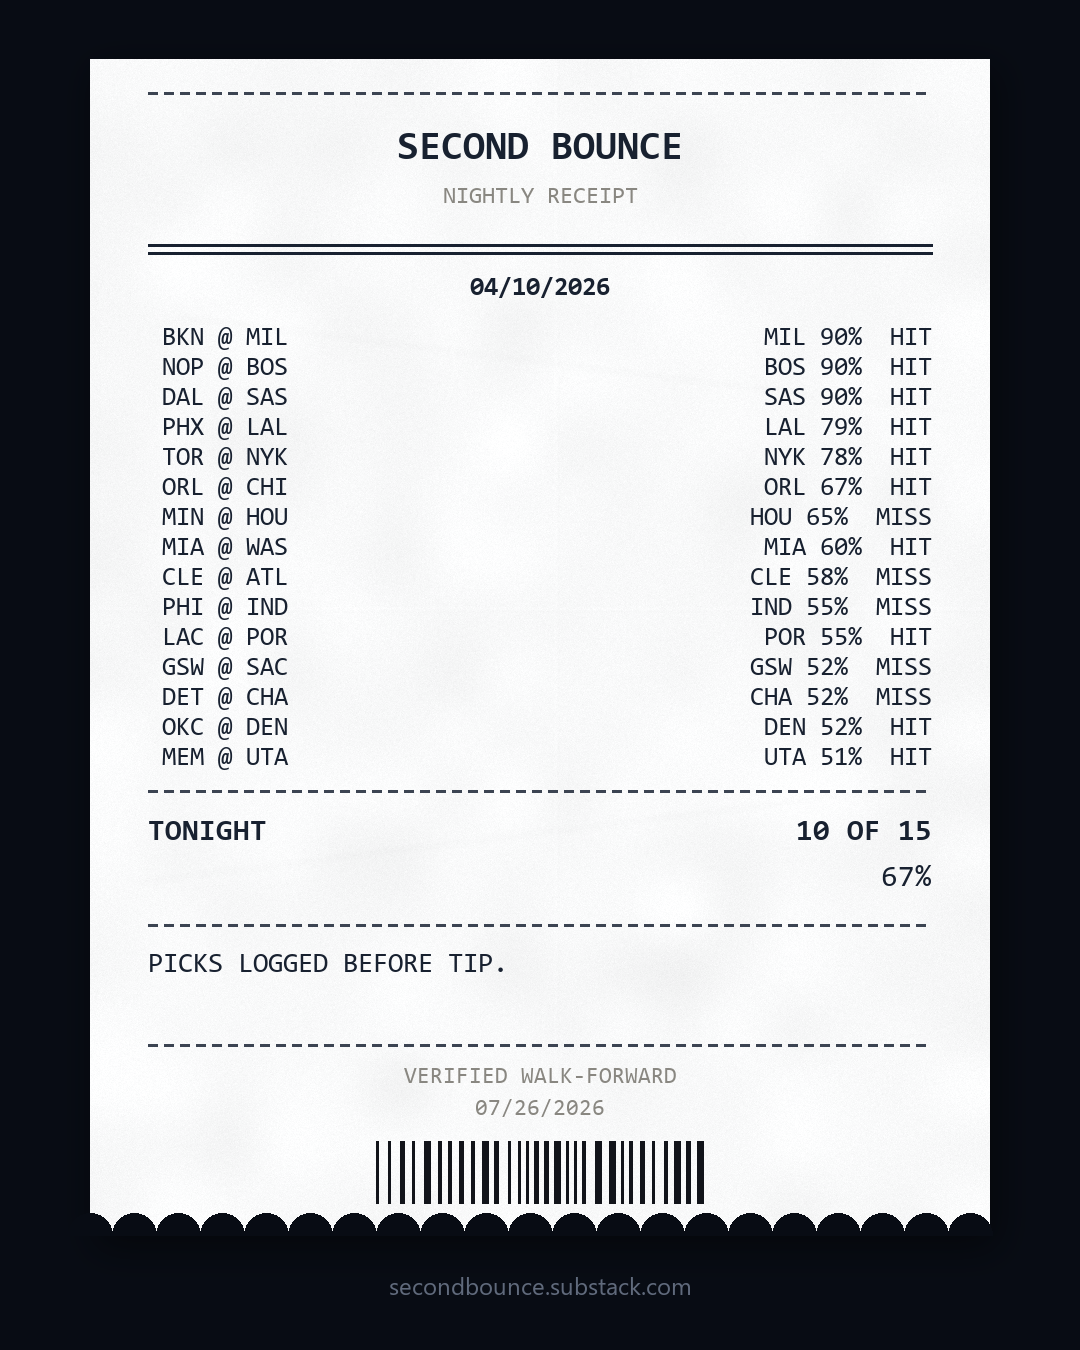
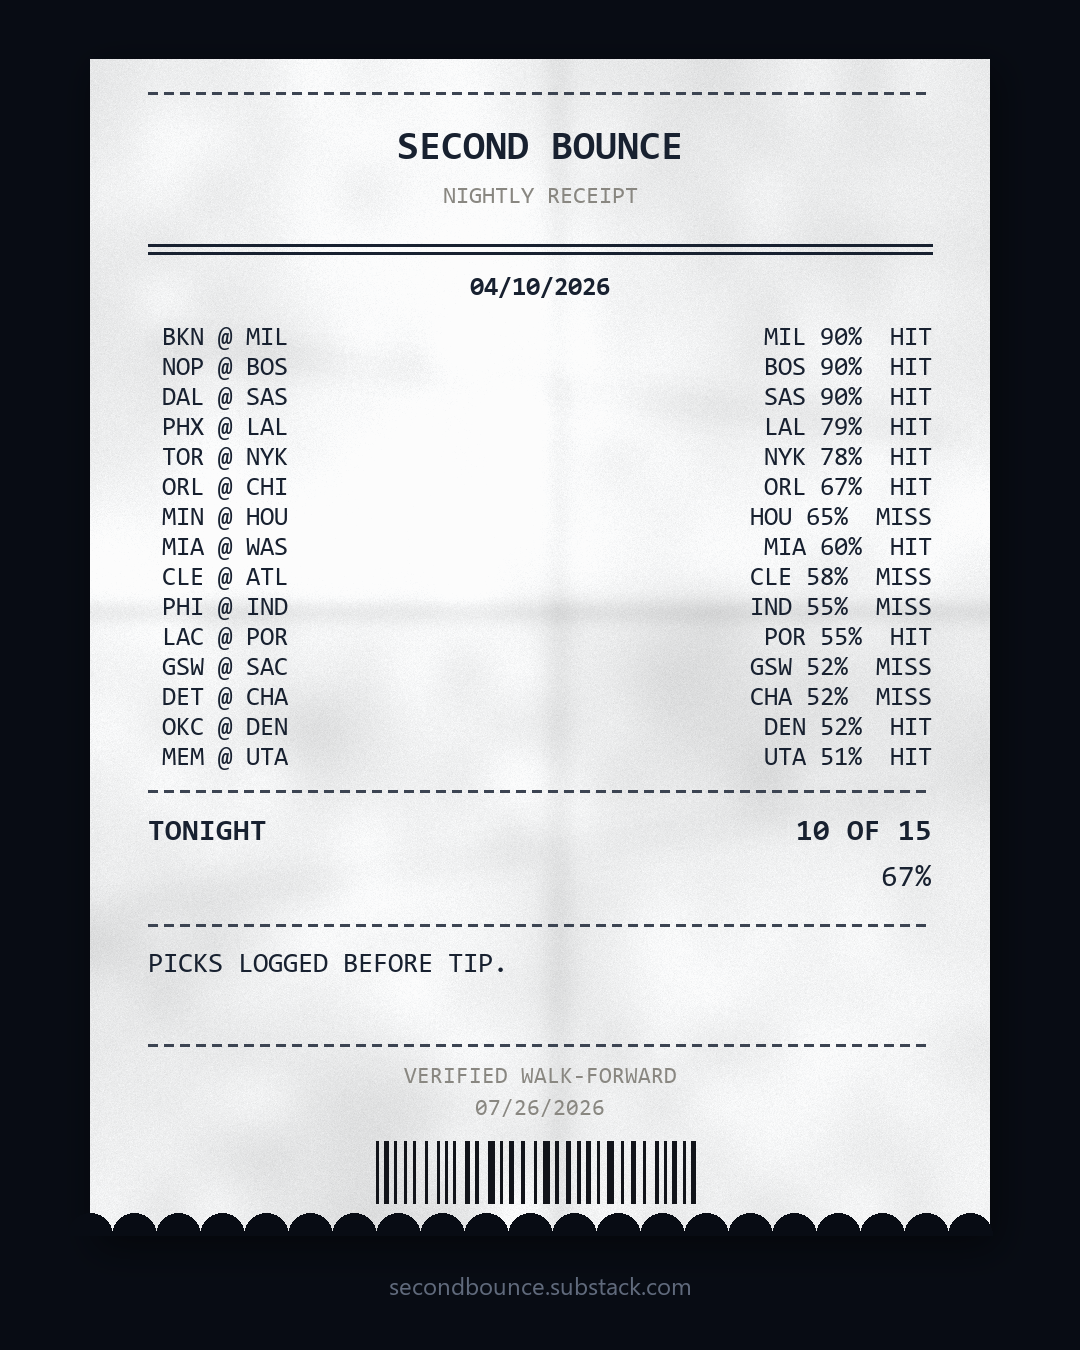
Receipts: retune paper texture so it is actually visible, add a --texture dial
Aaron could not make the first texture out, and he was right. The weight was on fine
grain and +-13 levels of mottling on a 250 base, roughly 5% variation, which is
invisible in a feed: the platform scales a 1080px image down to ~420px and
high-frequency detail averages away entirely.

Rebuilt around BROAD luminance variation, which is what survives downscaling:
  * uneven lighting from very low-res noise upscaled (the cloudy look of real stock)
  * fold shading as an antisymmetric profile d*exp(-d^2), darkening one side of the
    seam and lifting the other, which is how a fold actually catches light, plus a
    narrow crease line along it
  * two soft diagonal creases and a corner vignette
  * grain demoted to a top note
Paper std-dev goes 1.4 -> 8.3 levels. Verified at 420px, the size the feed renders:
the fold, the cloudy shading and the vignette all still read, and the monospace text
is still legible, which was the constraint.

`--texture` scales every amplitude (0 flat, 1 default, 1.6 heavy) so this is tunable
from the CLI without editing code.

diff --git a/scripts/generate_receipt_note.py b/scripts/generate_receipt_note.py
@@ -78,52 +78,68 @@ def abbr(name: str) -> str:
 
 
 # ------------------------------------------------------------------ texture
-def paper(w: int, h: int, seed: int = 7) -> Image.Image:
-    """Thermal-paper stock: soft cloudy mottling, a cross fold, fine grain.
+def paper(w: int, h: int, seed: int = 7, strength: float = 1.0) -> Image.Image:
+    """Photographed thermal paper.
 
-    Built from low-resolution noise upscaled smoothly (that is what gives the broad
-    cloudy variation of real paper, rather than uniform static), then a little
-    high-frequency grain on top, then fold seams.
+    Retuned 2026-07-26 after Aaron could not make the first version out. The lesson:
+    fine grain is invisible once the feed scales the image down. What survives is
+    BROAD luminance variation, so the weight is on large-scale uneven lighting, fold
+    shading and a vignette, with grain as a top note rather than the main event.
+
+    Layers, coarse to fine:
+      1. uneven lighting   very low-res noise, upscaled: the cloudy look of real stock
+      2. mottling          medium-res noise
+      3. fold              antisymmetric shading either side of the seam (dark on one
+                           side, lifted on the other, which is how a fold catches
+                           light), plus a narrow crease line
+      4. creases           two soft diagonals
+      5. vignette          corners fall off, as in a photo
+      6. grain             fine noise
+    `strength` scales every amplitude, so it can be dialled from the CLI.
     """
     rng = np.random.default_rng(seed)
+    s = strength
 
-    # broad mottling: 16x20 noise stretched to full size
-    low = rng.normal(0, 1, (20, 16))
-    mottle = np.array(Image.fromarray(
-        ((low - low.min()) / np.ptp(low) * 255).astype(np.uint8)
-    ).resize((w, h), Image.BICUBIC), dtype=np.float32)
-    mottle = (mottle - mottle.mean()) / 255.0 * 13.0  # +-13 levels, subtle
+    def upscaled(ny, nx, amp):
+        low = rng.normal(0, 1, (ny, nx))
+        img = Image.fromarray(((low - low.min()) / np.ptp(low) * 255).astype(np.uint8))
+        a = np.array(img.resize((w, h), Image.BICUBIC), dtype=np.float32)
+        return (a - a.mean()) / 128.0 * amp
 
-    grain = rng.normal(0, 2.1, (h, w))
+    field = upscaled(6, 5, 17.0 * s)          # uneven lighting
+    field += upscaled(22, 18, 11.0 * s)       # mottling
 
-    base = 250.0 + mottle + grain
-    # very slightly cool paper, like the reference photo
-    arr = np.stack([base - 1.0, base - 0.4, base], axis=2)
+    # fold: antisymmetric profile d*exp(-d^2), darkening one side and lifting the other
+    yy = np.arange(h, dtype=np.float32)[:, None]
+    xx = np.arange(w, dtype=np.float32)[None, :]
+    dy = (yy - h * 0.47) / (h * 0.10)
+    dx = (xx - w * 0.52) / (w * 0.16)
+    field += (-15.0 * s) * dy * np.exp(-dy * dy)
+    field += (-11.0 * s) * dx * np.exp(-dx * dx)
 
-    # cross fold: one horizontal seam, one vertical, each a dark line with a
-    # lighter lift beside it, blurred. Real folds catch light on one side.
-    fold_y, fold_x = int(h * 0.47), int(w * 0.52)
-    seam = np.zeros((h, w), dtype=np.float32)
-    for off, val in ((-2, 5.0), (-1, 3.0), (0, -7.0), (1, -3.0), (2, 3.5)):
-        yy, xx = fold_y + off, fold_x + off
-        if 0 <= yy < h:
-            seam[yy, :] += val
-        if 0 <= xx < w:
-            seam[:, xx] += val
-    seam = np.array(Image.fromarray(
-        np.clip(seam + 128, 0, 255).astype(np.uint8)).filter(
-        ImageFilter.GaussianBlur(1.6)), dtype=np.float32) - 128.0
-    arr += seam[:, :, None]
+    # the crease itself: a narrow dark line along each fold
+    field += (-16.0 * s) * np.exp(-((dy * 9.0) ** 2))
+    field += (-11.0 * s) * np.exp(-((dx * 9.0) ** 2))
 
-    # a couple of faint diagonal creases so it does not read as a flat gradient
-    for (x0, y0, x1, y1) in ((int(w * .1), int(h * .22), int(w * .95), int(h * .30)),
-                             (int(w * .05), int(h * .70), int(w * .9), int(h * .62))):
+    # two soft diagonal creases
+    for (x0, y0, x1, y1), amp in (
+        ((int(w * .08), int(h * .24), int(w * .96), int(h * .32)), 13.0),
+        ((int(w * .04), int(h * .72), int(w * .92), int(h * .63)), 10.0),
+    ):
         cre = Image.new("L", (w, h), 128)
-        ImageDraw.Draw(cre).line([x0, y0, x1, y1], fill=121, width=3)
-        arr += (np.array(cre.filter(ImageFilter.GaussianBlur(3.0)),
-                         dtype=np.float32) - 128.0)[:, :, None] * 0.9
+        ImageDraw.Draw(cre).line([x0, y0, x1, y1], fill=88, width=4)
+        blurred = np.array(cre.filter(ImageFilter.GaussianBlur(14.0)), dtype=np.float32)
+        field += (blurred - 128.0) * (amp * s / 6.0)
 
-    return Image.fromarray(np.clip(arr, 0, 255).astype(np.uint8), "RGB")
+    # vignette: normalised radius, corners pulled down
+    r = np.sqrt(((xx / w - 0.5) * 2) ** 2 + ((yy / h - 0.5) * 2) ** 2) / 1.4142
+    field += (-13.0 * s) * (r ** 2)
+
+    field += rng.normal(0, 3.4 * s, (h, w))   # grain
+
+    base = 247.0 + field
+    arr = np.stack([base - 1.6, base - 0.7, base], axis=2)   # faintly cool stock
+    return Image.fromarray(np.clip(arr, 0, 252).astype(np.uint8), "RGB")
 
 
 def barcode(d: ImageDraw.ImageDraw, cx: int, y: int, seed_text: str,
@@ -274,7 +290,8 @@ def _fit(blocks: list, x0: int, x1: int):
     return blocks, 30, _emit(blocks, None, x0, x1, 0, pitch=30) + 40
 
 
-def render(blocks: list, out: Path, barcode_seed: str = "") -> Path:
+def render(blocks: list, out: Path, barcode_seed: str = "",
+           texture: float = 1.0) -> Path:
     x0, x1 = PAD + 58, W - PAD - 58
 
     # pass 1: measure and make it FIT. A 15-game slate overruns the slip, so tighten
@@ -293,7 +310,8 @@ def render(blocks: list, out: Path, barcode_seed: str = "") -> Path:
                                 fill=120)
     img.paste(Image.new("RGB", (W, H), (0, 0, 0)),
               (0, 0), sh.filter(ImageFilter.GaussianBlur(18)))
-    img.paste(paper(slip[2] - slip[0], slip[3] - slip[1]), (slip[0], slip[1]))
+    img.paste(paper(slip[2] - slip[0], slip[3] - slip[1], strength=texture),
+              (slip[0], slip[1]))
 
     d = ImageDraw.Draw(img)
 
@@ -381,6 +399,8 @@ def main() -> None:
     p.add_argument("--date", help="nightly only: YYYYMMDD (default: latest in log)")
     p.add_argument("--list", action="store_true")
     p.add_argument("--out")
+    p.add_argument("--texture", type=float, default=1.0,
+                   help="paper texture strength (0 = flat, 1 = default, 1.6 = heavy)")
     a = p.parse_args()
     if a.list:
         print("types:", ", ".join(sorted(TYPES)))
@@ -398,7 +418,7 @@ def main() -> None:
         note = f"{s['n']} graded games, accuracy {s['accuracy']:.2f}%"
 
     out = Path(a.out) if a.out else OUT_DIR / f"receipt_{a.type}_{stamp}.png"
-    render(blocks, out, barcode_seed=seed)
+    render(blocks, out, barcode_seed=seed, texture=a.texture)
     print(f"wrote {out}\n  from {note}")
 
 
